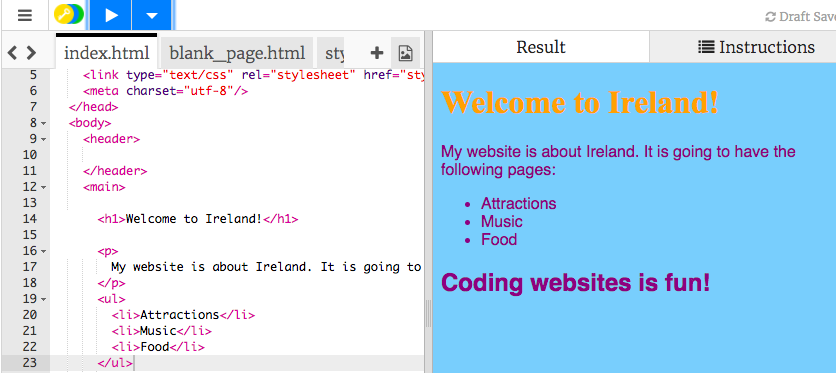
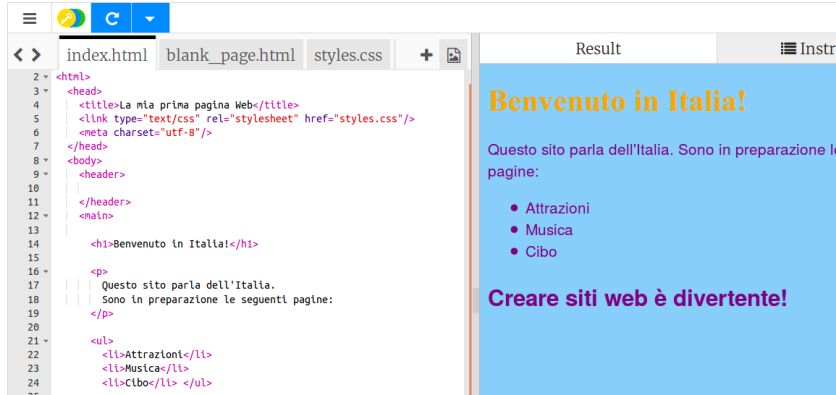
Updates it/assets/egUnorderedList.png
Auto commit by GitBook Editor

Changed region(s): [[0.0, 0.0, 1.0, 1.0], [0.9019, 0.0295, 1.0, 0.059]]

diff --git a/it/making-a-list.md b/it/making-a-list.md
@@ -1,31 +1,31 @@
-1. When writing a list, wouldn't it be nice if the text looked more like a proper list? Well, there are html tags that do just that! Go back to the tab named index.html and change the paragraph code so that it looks like this: 
+1. Quando si scrive una lista, non sarebbe bello se gli elementi venissero automaticamente rappresentati come una lista vera e propria? Ci sono tag html proprio per ottenere questo risultato! Apriamo nuovamente la linguetta con il file index.html e cambiamo il codice del paragrafo nel seguente modo: 
    ```html
     <p>
-       My website is about Ireland. 
-       It is going to have the following pages:
+       Questo sito parla dell'Italia. 
+       Sono in preparazione le seguenti pagine:
     </p>
     <ul>
-       <li>Attractions</li>
-       <li>Music</li>
-       <li>Food</li>
+       <li>Attrazioni</li>
+       <li>Musica</li>
+       <li>Cibo</li>
     </ul>
    ```
-2. Click Run. See how the text got put into a nice list? ![](/assets/egUnorderedList.png)
-3. The `<ul> </ul>` tags go around the whole list, and they turn it into the nice looking list you now have. "ul" stands for **unordered list**. This means a list with no numbers. Each thing in the list must be in between `<li> </li>` tags. "li" stands for **list item**. 
- * Change the text in the list items to some pages that you would like to have in your website. Your website can be about anything you want, it doesn't have to be about your home country!
-4. How about if you wanted a numbered list? It's almost the same, but instead of `ul`, you use `ol`, which stands for **ordered list**. Add the following code just above the line with the closing `</main>` tag:
+2. Osserva come il testo è stato convertito in una simpatica lista! ![](assets/egUnorderedList.png)
+3. I tag `<ul> </ul>` delimitano la lista nella sua interezza, e sono loro che hanno permesso di convertire il testo nella lista che appare adesso. "ul" significa **unordered list** ossia **lista non ordinata**, cioè una lista senza numeri. Ogni elemento della lista deve stare tra i tag `<li> </li>`. "li" significa **list item**, ossia **elemento di lista**. 
+   * Divertiti a cambiare gli elementi della lista in base a quello che vuoi mettere sul tuo sito web. Il tuo sito può essere su qualsiasi argomento ti interessi e non necessariamente sull'Italia!
+4. E se volessimo una lista numerata? E' praticamente la stessa cosa, solo che al posto di `ul` dobbiamo usare `ol`, ossia **ordered list** (in italiano **lista ordinata**). Aggiungi il seguente codice prima del tag `</main>`:
    ```html
    <p>
-      These are the things I have learned to use in my website so far:
+      Cosa ho imparato a usare per il mio sito web finora:
    </p>
    <ol>
-      <li>Headings</li>
-      <li>Paragraphs</li>
-      <li>A stylesheet</li>
-      <li>Lists!</li>
+      <li>Titoli</li>
+      <li>Paragrafi</li>
+      <li>Fogli di stile</li>
+      <li>Liste</li>
    </ol>
    ```
-5. Click Run. Here's what it should look like now ![](/assets/egOrderedList.png)
+5. Dopo questa modifica, ecco come dovrebbe apparire il sito web ![](assets/egOrderedList.png)
 
 
 
